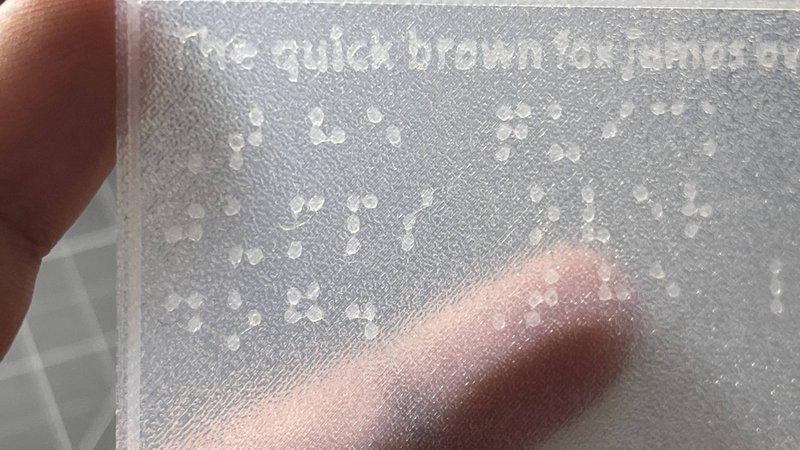
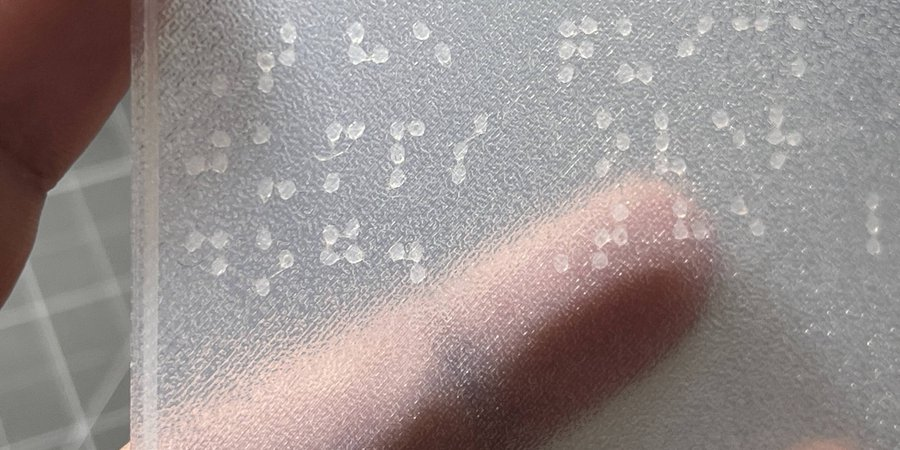
fix: Rework TE01/TE02/TE06 thumbnails for the real 2:1 grid crop
Grid tiles render at 2:1 (not 16:9) plus a 1.1x zoom at rest, which was
clipping text/logos flush against the edges (TE01's title, TE02's
heading). Re-cropped with margin on a padded 900x450 canvas; TE01 also
redone from a clean source without the baked-in YouTube play button.

diff --git a/_highlights/inclusiveness-of-media-in-east-africa.md b/_highlights/inclusiveness-of-media-in-east-africa.md
@@ -12,7 +12,7 @@ Although many East African countries have signed international agreements promot
 
 {% include image.html src="/assets/img/highlights/inclusiveness-of-media-in-east-africa-editing.jpg" alt="Participants editing a video project together on a computer" %}
 
-## Media advocacy and content creation – trainings 2024–2025
+## Media advocacy and content creation – Trainings 2024–2025
 
 The trainings on media advocacy and entrepreneurship for People With Disabilities (PWDs) were developed and realised by the #ASKnet member NEXUS and brought together participants from refugee settlements and the host community in the Adjumani district in Northern Uganda, representing different forms of disabilities. The activities aimed to equip participants with skills in media advocacy, content creation, entrepreneurship, and social media management while promoting inclusion and economic empowerment. Inclusive methods such as sign language interpretation, group discussions, practical exercises, and caretaker support ensured active participation. Participants showed strong enthusiasm and willingness to learn, while the presence of government representatives demonstrated commitment to disability inclusion.
 
